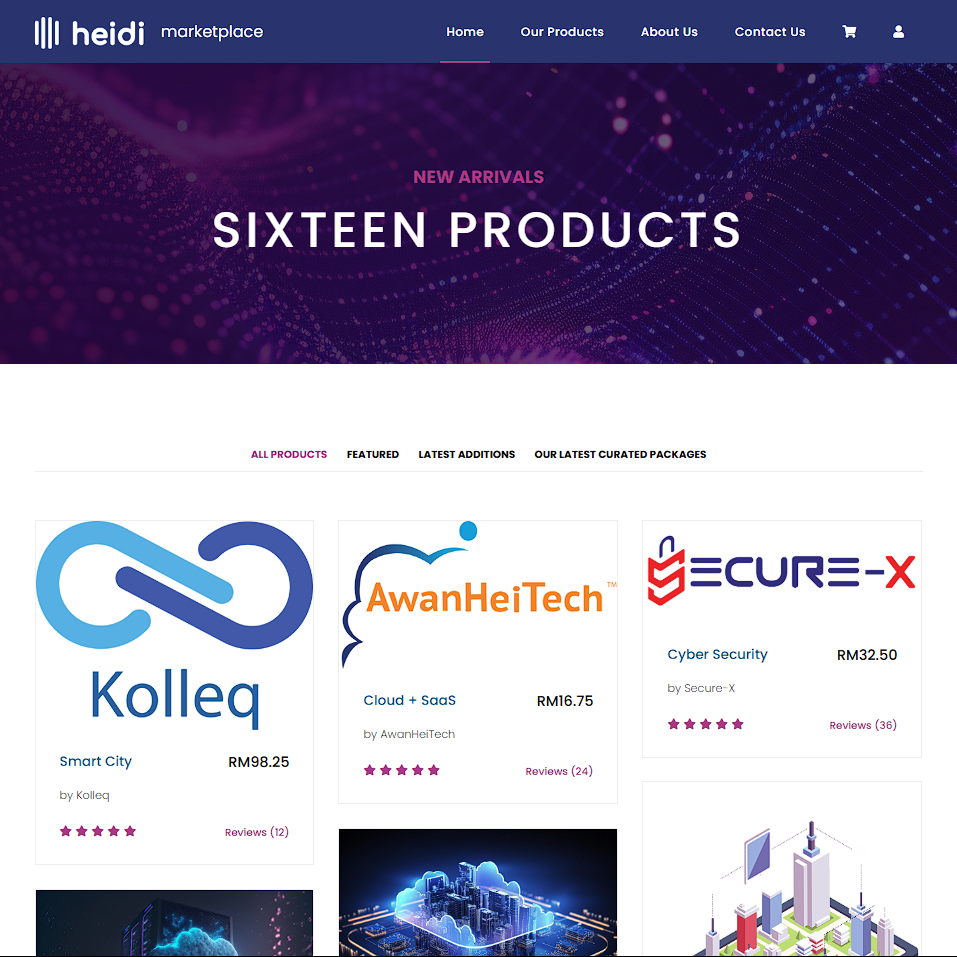
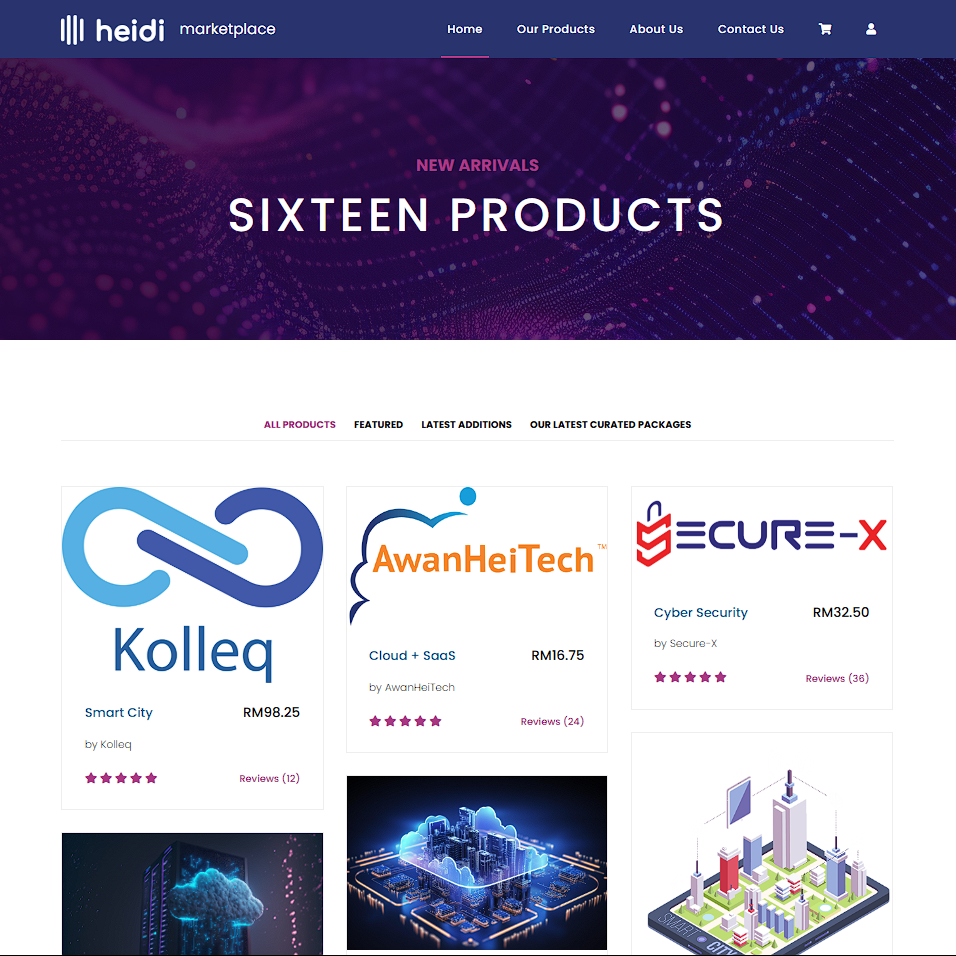
update

diff --git a/index.html b/index.html
@@ -325,7 +325,7 @@
     
                 <!-- Works Gallery Single Item Start -->
                 <figure class="col-12 col-md-6 gallery__item grid-item animate-card-2" itemprop="associatedMedia" itemscope itemtype="http://schema.org/ImageObject">
-                  <a href="img/heidimarket.png" data-image="img/heidimarketthumbnail.png" class="gallery__link" itemprop="contentUrl" data-size="1905x957">
+                  <a href="img/heidimarket.png" data-image="img/heidimarketthumbnail.png" class="gallery__link" itemprop="contentUrl" data-size="1250x956">
                     <img src="img/heidimarketthumbnail.png" class="gallery__image" itemprop="thumbnail" alt="Image description">
                   </a>
                   <figcaption class="gallery__descr opposite" itemprop="caption description">
